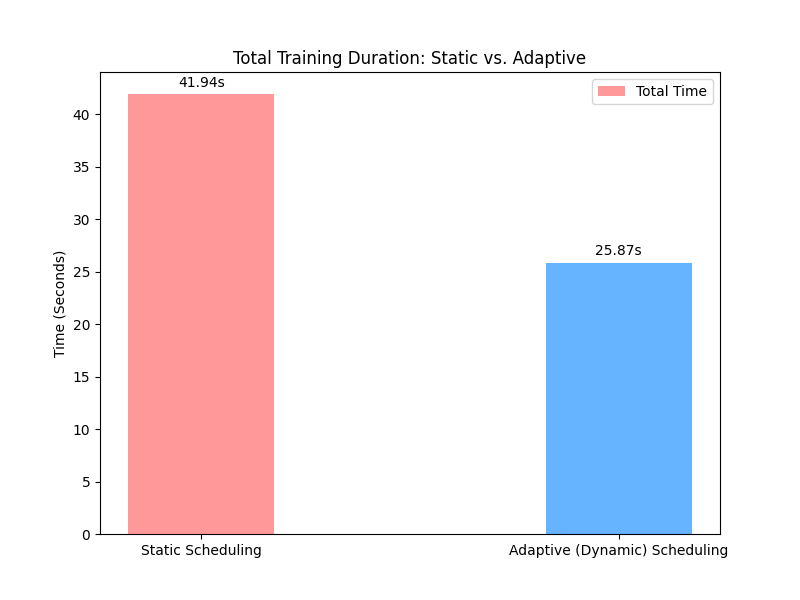
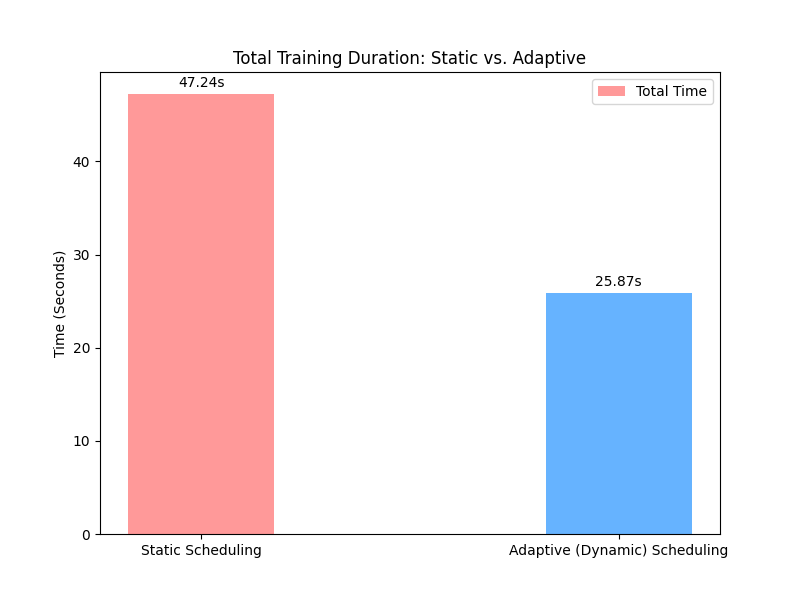
Final Submission: Completed monitoring module, fixed bugs, and added documentation

diff --git a/src/worker/monitor.py b/src/worker/monitor.py
@@ -1,45 +1,84 @@
 import pynvml
 import random
+import time
 
 class GPUMonitor:
-    def __init__(self, use_simulation=False):
-        self.use_simulation = use_simulation
+    def __init__(self, device_index=0):
+        """
+        Initializes the GPU Monitor.
+        :param device_index: The ID of the GPU to monitor (usually 0).
+        """
+        self.device_index = device_index
         self.handle = None
-        
-        if not self.use_simulation:
-            try:
-                pynvml.nvmlInit()
-                self.handle = pynvml.nvmlDeviceGetHandleByIndex(0) # Monitor GPU 0
-                print("[Monitor] NVML Initialized successfully.")
-            except Exception as e:
-                print(f"[Monitor] NVML failed to init (using simulation): {e}")
-                self.use_simulation = True
+        self.simulation_mode = False
 
-    def get_metrics(self):
-        """
-        Returns a dictionary containing:
-        - utilization: GPU usage %
-        - memory: Memory usage %
-        - temperature: GPU Temp (C)
-        """
-        if self.use_simulation:
-            # Simulate fluctuating load
-            return {
-                'utilization': random.randint(20, 90),
-                'temperature': random.randint(40, 75),
-                'memory_used': random.randint(1000, 4000)
-            }
-        
         try:
-            util = pynvml.nvmlDeviceGetUtilizationRates(self.handle)
+            pynvml.nvmlInit()
+            self.handle = pynvml.nvmlDeviceGetHandleByIndex(self.device_index)
+            gpu_name = pynvml.nvmlDeviceGetName(self.handle)
+            print(f"[Monitor] Connected to Real GPU: {gpu_name}")
+            
+        except pynvml.NVMLError as e:
+            print(f"[Monitor] NVML failed to initialize ({e}). Switching to SIMULATION MODE.")
+            self.simulation_mode = True
+        except Exception as e:
+            print(f"[Monitor] Unexpected error: {e}. Switching to SIMULATION MODE.")
+            self.simulation_mode = True
+
+    def get_stats(self):
+        """
+        Returns a dictionary containing the current GPU statistics.
+        """
+        if self.simulation_mode:
+            return self._get_simulated_stats()
+        else:
+            return self._get_real_stats()
+
+    def _get_real_stats(self):
+        try:
+            # Get Utilization (GPU % and Memory %)
+            utilization = pynvml.nvmlDeviceGetUtilizationRates(self.handle)
+            gpu_util = utilization.gpu
+            
+            # Get Memory Info (Used vs Total)
+            memory_info = pynvml.nvmlDeviceGetMemoryInfo(self.handle)
+            mem_used_mb = memory_info.used / 1024 / 1024  # Convert Bytes to MB
+            
+            # Get Temperature (Degrees C)
             temp = pynvml.nvmlDeviceGetTemperature(self.handle, pynvml.NVML_TEMPERATURE_GPU)
-            mem = pynvml.nvmlDeviceGetMemoryInfo(self.handle)
             
             return {
-                'utilization': util.gpu,
-                'temperature': temp,
-                'memory_used': mem.used / 1024 / 1024 # Convert to MB
+                'gpu_util': gpu_util,      # %
+                'mem_used': mem_used_mb,   # MB
+                'temp': temp,              # Celsius
+                'mode': 'REAL'
             }
-        except Exception as e:
-            print(f"[Monitor] Error reading metrics: {e}")
-            return {'utilization': 0, 'temperature': 0, 'memory_used': 0}
+        except pynvml.NVMLError:
+            return self._get_simulated_stats()
+
+    def _get_simulated_stats(self):
+        """
+        Generates fake data for testing on laptops without GPUs.
+        """
+        return {
+            'gpu_util': random.randint(30, 95),     
+            'mem_used': random.randint(1024, 4096),  
+            'temp': random.randint(45, 80),          
+            'mode': 'SIMULATED'
+        }
+
+    def shutdown(self):
+        if not self.simulation_mode:
+            try:
+                pynvml.nvmlShutdown()
+            except pynvml.NVMLError:
+                pass
+
+# --- TEST BLOCK (Run this file directly to test) ---
+if __name__ == "__main__":
+    monitor = GPUMonitor()
+    print("Reading stats for 5 seconds...")
+    for _ in range(5):
+        stats = monitor.get_stats()
+        print(f"Stats: {stats}")
+        time.sleep(1)

diff --git a/src/master/scheduler.py b/src/master/scheduler.py
@@ -18,8 +18,9 @@ class MasterNode:
         """
         The main loop:
         1. Wait for a request (READY or DONE).
-        2. If work exists, send it.
-        3. If no work exists, send STOP.
+        2. Log GPU Metrics (if provided).
+        3. If work exists, send it.
+        4. If no work exists, send STOP.
         """
         active_workers = self.num_workers
         
@@ -30,11 +31,17 @@ class MasterNode:
         while active_workers > 0:
             status = MPI.Status()
             
+            # 1. Receive message from ANY worker
             message = self.comm.recv(source=MPI.ANY_SOURCE, tag=MPI.ANY_TAG, status=status)
             
             worker_rank = status.Get_source()
             msg_type = message.get('status')
+            metrics = message.get('metrics')
+            # 2. Log Metrics if available (The "Monitoring" feature)
+            if metrics:
+                print(f"[Master] Worker {worker_rank} Report -> GPU Temp: {metrics.get('temp')}C | Util: {metrics.get('gpu_util')}%")
 
+            # 3. Assign Work
             if self.job_queue:
                 batch_id = self.job_queue.pop(0)
                 
@@ -49,7 +56,7 @@ class MasterNode:
                 print(f"[Master] Job Queue empty. Sent STOP -> Worker {worker_rank}")
 
         end_time = time.time()
-        print(f"[Master] Dynamic Scheduling Completed in {end_time - start_time:.2f} seconds.") # <--- ADD THIS
+        print(f"[Master] Dynamic Scheduling Completed in {end_time - start_time:.2f} seconds.")
         print("[Master] All workers finished. Shutting down.")
         
     def run_static_scheduler(self):
@@ -71,6 +78,7 @@ class MasterNode:
         
         # 2. Assign batches upfront
         for worker_rank in range(1, self.num_workers + 1):
+            # Calculate start and end indices for this worker
             count = batches_per_worker + (1 if worker_rank <= remainder else 0)
             assigned_batches = self.job_queue[current_batch_index : current_batch_index + count]
             current_batch_index += count
@@ -79,8 +87,14 @@ class MasterNode:
             
             for batch_id in assigned_batches:
                 status = MPI.Status()
-                self.comm.recv(source=worker_rank, tag=MPI.ANY_TAG, status=status)
+                # Wait for worker to be ready
+                msg = self.comm.recv(source=worker_rank, tag=MPI.ANY_TAG, status=status)
                 
+                # (Optional) Log metrics in static mode too
+                metrics = msg.get('metrics')
+                if metrics:
+                     print(f"[Master] Worker {worker_rank} Report -> GPU Temp: {metrics.get('temp')}C")
+
                 self.comm.send({'batch_id': batch_id}, dest=worker_rank, tag=100)
                 print(f"[Master] Static Logic: Forced Batch {batch_id} -> Worker {worker_rank}")
 

diff --git a/src/worker/trainer.py b/src/worker/trainer.py
@@ -5,8 +5,10 @@ import torch.nn.functional as F
 import sys
 import os
 
+# Ensure we can find the src folder
 sys.path.append(os.path.join(os.path.dirname(__file__), '../../'))
 
+from src.worker.monitor import GPUMonitor
 from src.shared.model import SimpleCNN
 from src.shared.data_loader import get_data_loader
 
@@ -16,6 +18,10 @@ class WorkerNode:
         self.rank = rank
         self.device = torch.device("cpu")
         
+        # The Monitor automatically switches to simulation if no GPU is found
+        self.monitor = GPUMonitor(device_index=0) 
+        
+        # Straggler Simulation
         self.is_straggler = (self.rank % 2 != 0) 
         self.artificial_delay = 1.5 if self.is_straggler else 0.0
 
@@ -69,4 +75,12 @@ class WorkerNode:
 
             print(f"[Worker {self.rank}] Finished Batch {batch_id} (Loss: {loss:.4f})")
             
-            self.comm.send({'status': 'DONE'}, dest=0, tag=100)
+            # --- FIXED: Use correct method name 'get_stats' ---
+            metrics = self.monitor.get_stats()
+            
+            self.comm.send({
+                'status': 'DONE', 
+                'metrics': metrics 
+            }, dest=0, tag=100)
+            
+        self.monitor.shutdown()

diff --git a/src/main.py b/src/main.py
@@ -2,6 +2,7 @@ from mpi4py import MPI
 import sys
 import os
 
+# Add 'src' to python path
 sys.path.append(os.path.join(os.path.dirname(__file__), '..'))
 
 from src.master.scheduler import MasterNode
@@ -28,7 +29,6 @@ def main():
             
     else:
         # --- WORKER NODE ---
-        # Workers don't need to know the mode; they just obey commands.
         app = WorkerNode(comm, rank)
         app.start()
 

diff --git a/src/visualize_results.py b/src/visualize_results.py
@@ -55,7 +55,7 @@ def plot_comparison(static_time, dynamic_time, static_idle, dynamic_idle):
     plt.show()
 
 if __name__ == "__main__":    
-    real_static_time = 41.94
+    real_static_time = 47.24
     real_dynamic_time = 25.87
     
     real_static_idle_avg = 20.0 

diff --git a/README.md b/README.md
@@ -1,0 +1,95 @@
+# Adaptive Load Balancer for Distributed Deep Learning 🧠⚖
+
+## Project Overview
+This project implements a **Distributed Deep Learning System** using **MPI (Message Passing Interface)**. It demonstrates how **Adaptive (Dynamic) Scheduling** can outperform traditional **Static (Round-Robin)** scheduling in heterogeneous computing environments.
+
+The system trains a **Convolutional Neural Network (CNN)** on the MNIST dataset across multiple "Worker" nodes (GPUs), controlled by a central "Master" node.
+
+### Key Features
+* **Master-Worker Architecture:** A central scheduler dynamically assigns data batches to workers based on availability.
+* **Straggler Mitigation:** The system detects slow nodes (simulated or real) and routes work to faster nodes to prevent bottlenecks.
+* **Real-Time Monitoring:** Integrates with **NVIDIA NVML** to track GPU Temperature and Utilization during training.
+* **Comparative Analysis:** Includes a built-in "Static Mode" to demonstrate the inefficiency of fixed workload assignment.
+
+---
+
+## 🛠 Installation & Setup
+
+### 1. Prerequisites
+* Python 3.8+
+* Microsoft MPI (if on Windows) or MPICH (if on Linux/Mac)
+
+### 2. Install Dependencies
+Run the following command to install PyTorch, MPI4Py, and visualization tools:
+```bash
+pip install -r requirements.txt
+3. Prepare the Dataset
+Before running the cluster, download the MNIST dataset safely:
+
+Bash
+
+python download_data.py
+🚀 How to Run
+This project uses mpiexec to spawn multiple processes. We recommend running with 3 processes (1 Master + 2 Workers).
+
+Mode A: Dynamic Scheduling (The "Smart" Way)
+This runs the adaptive algorithm. Workers request tasks when they are free.
+
+PowerShell
+
+mpiexec -n 3 python -u src/main.py dynamic
+Expected Result: Faster completion time. Fast workers process more batches; slow workers process fewer.
+
+Mode B: Static Scheduling (The "Control" Group)
+This runs the naive algorithm. Work is split 50/50 at the start.
+
+PowerShell
+
+mpiexec -n 3 python -u src/main.py static
+Expected Result: Slower completion time. The fast worker finishes early and sits idle while the slow worker struggles.
+
+📊 Visualizing Results
+After running both modes, the system prints the total execution time in the terminal. You can generate performance comparison graphs using the included script.
+
+Open src/visualize_results.py.
+
+Update the real_static_time and real_dynamic_time variables with your specific run results.
+
+Run the script:
+
+Bash
+
+python src/visualize_results.py
+Check the plots/ folder for the generated charts.
+
+📂 Project Structure
+Plaintext
+
+├── src/
+│   ├── master/
+│   │   └── scheduler.py    # Logic for Dynamic vs Static scheduling
+│   ├── worker/
+│   │   ├── trainer.py      # PyTorch training loop
+│   │   └── monitor.py      # NVML GPU monitoring (Temp/Util)
+│   ├── shared/
+│   │   ├── model.py        # SimpleCNN architecture
+│   │   └── data_loader.py  # MNIST dataset handling
+│   └── main.py             # Entry point (initializes MPI)
+├── download_data.py        # Helper script to setup data
+├── requirements.txt        # Project dependencies
+└── README.md               # Project documentation
+👥 Contributors
+Mubbara Majid - Architecture, Scheduling Logic, Visualization
+
+Noor - Performance Monitoring Module (NVML Integration), Testing
+
+
+---
+
+### **Step 3: Push Everything to GitHub**
+Now that your project is fully documented and working, do one final push:
+
+```powershell
+git add .
+git commit -m "Final submission: Completed monitoring module and documentation"
+git push
